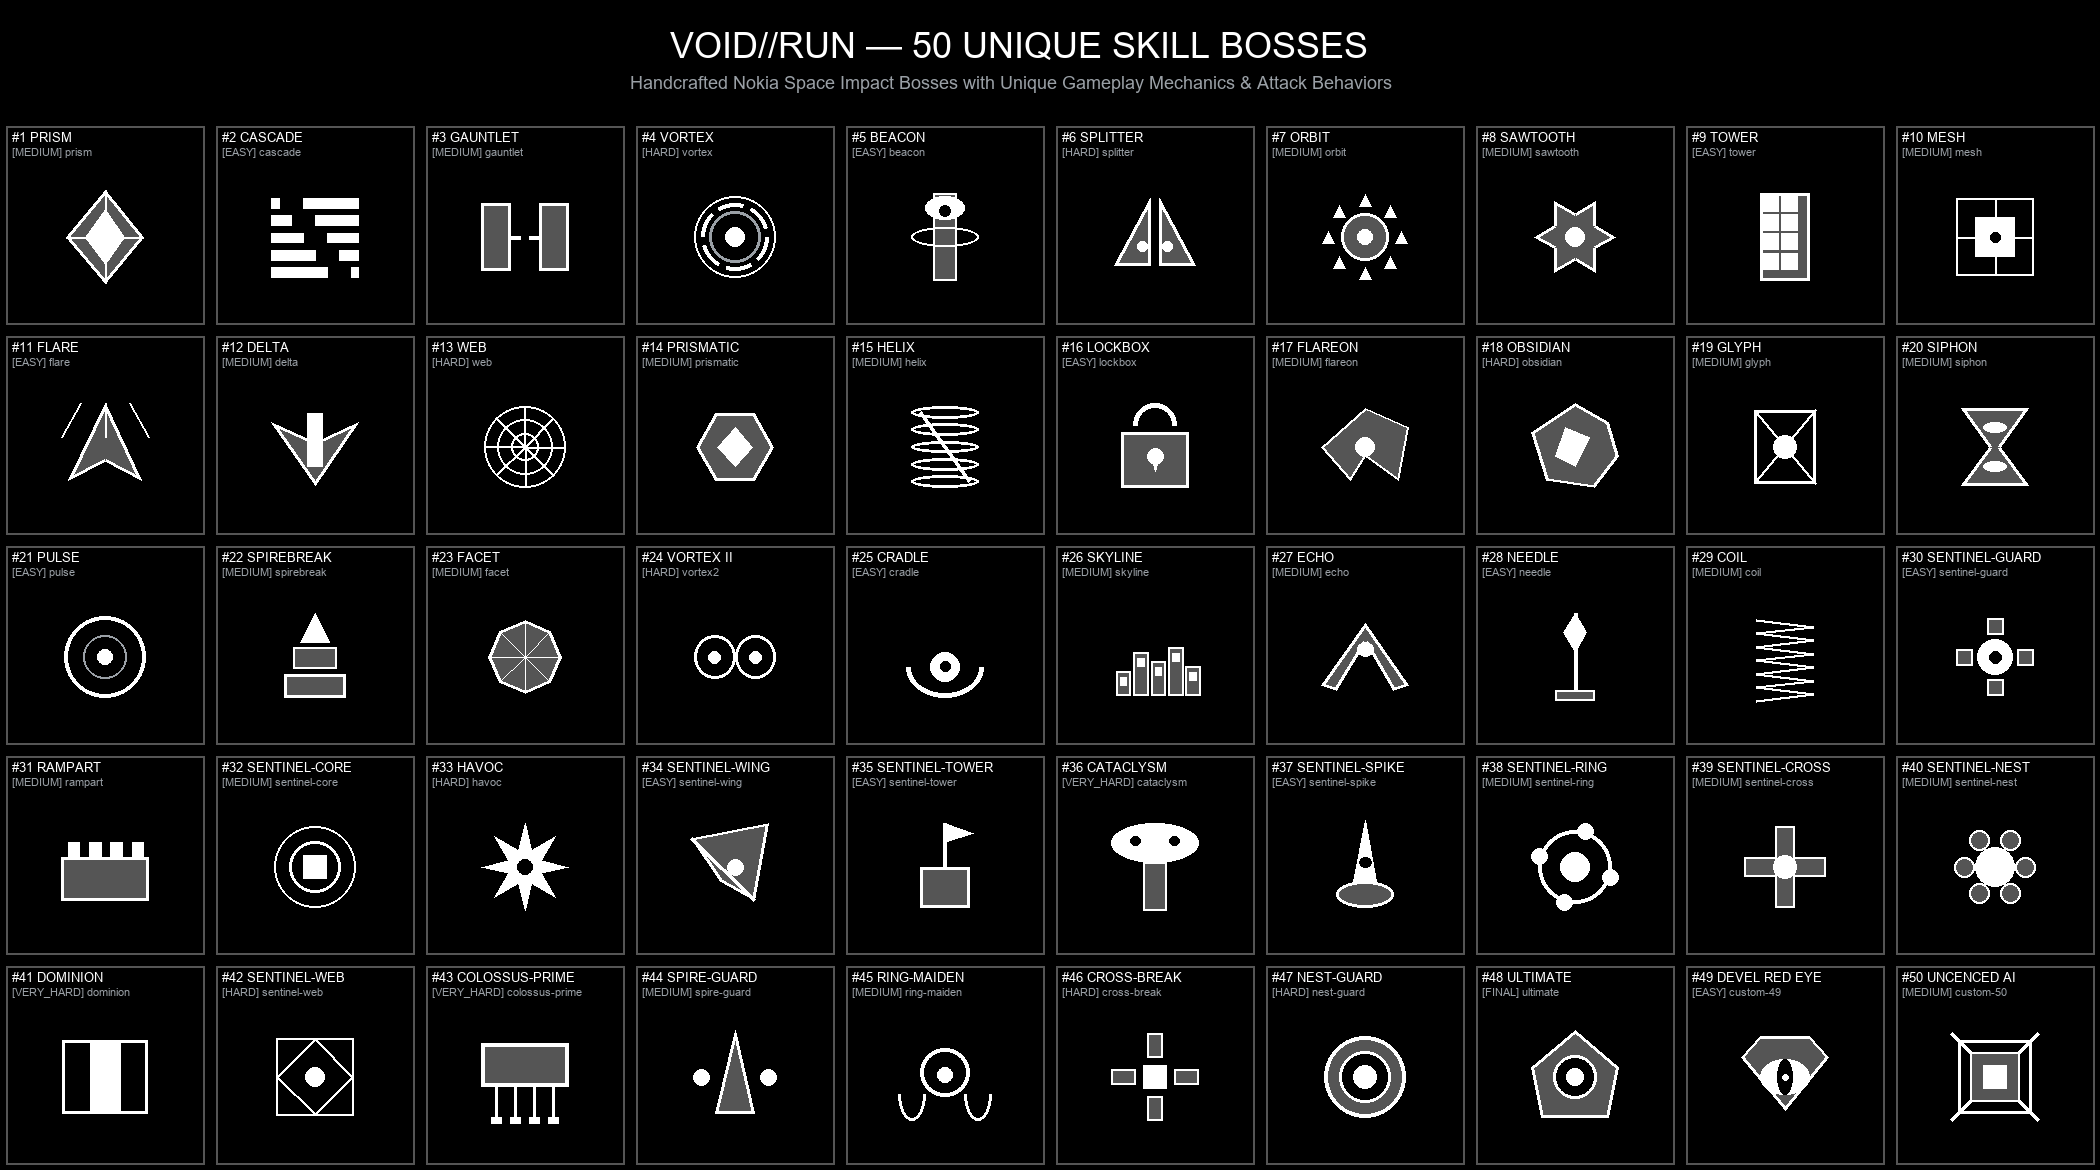
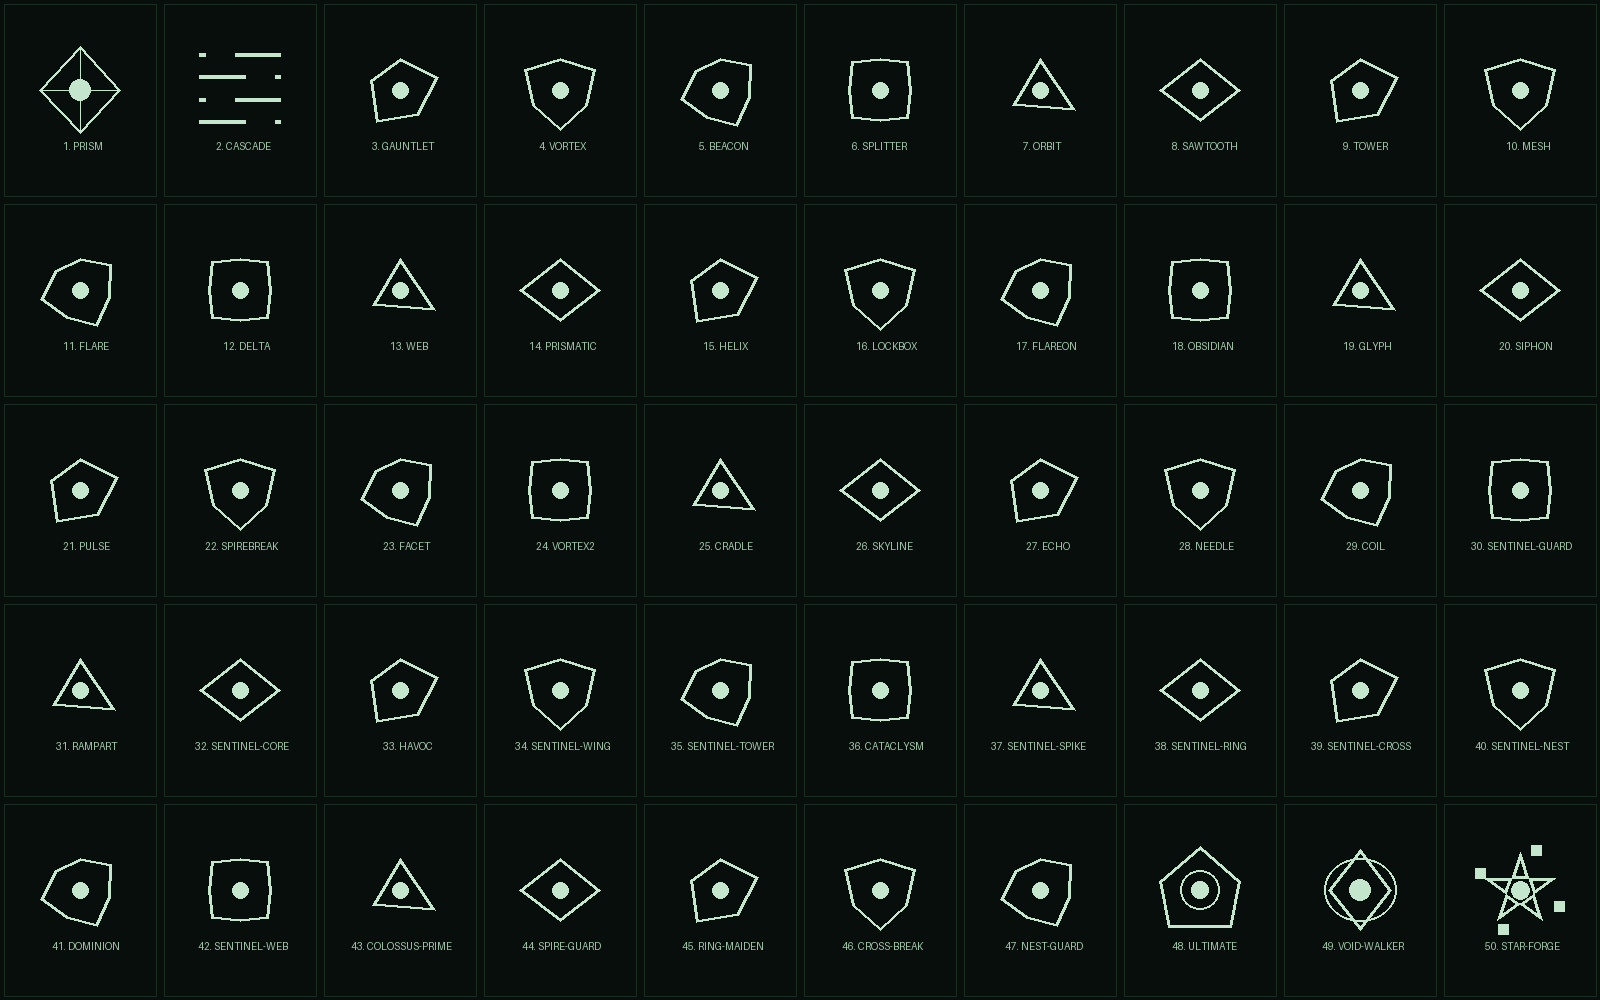
Update bosses 49 void-walker and 50 star-forge in specs, art, and previews

diff --git a/SpaceImpactAndroid/app/src/main/java/com/nebulastrike/game/Art.kt b/SpaceImpactAndroid/app/src/main/java/com/nebulastrike/game/Art.kt
@@ -958,32 +958,35 @@ object Art {
                 c.drawOval((x-bw*0.22).toFloat(), (y-bw*0.22).toFloat(), (x+bw*0.22).toFloat(), (y+bw*0.22).toFloat(), stroke)
                 c.drawOval((x-bw*0.09).toFloat(), (y-bw*0.09).toFloat(), (x+bw*0.09).toFloat(), (y+bw*0.09).toFloat(), fill.apply { color = col })
             }
-            "custom-49", "48", "boss48" -> { // #49 THE DEVEL RED EYE (ID: custom-49)
-                path.reset()
-                path.moveTo((x).toFloat(), (y + bw * 0.35).toFloat())
-                path.lineTo((x - bw * 0.45).toFloat(), (y - bw * 0.2).toFloat())
-                path.lineTo((x - bw * 0.25).toFloat(), (y - bw * 0.42).toFloat())
-                path.lineTo((x + bw * 0.25).toFloat(), (y - bw * 0.42).toFloat())
-                path.lineTo((x + bw * 0.45).toFloat(), (y - bw * 0.2).toFloat())
-                path.close()
-                c.drawPath(path, fill.apply { color = bg })
-                stroke.color = col; stroke.strokeWidth = 3f; c.drawPath(path, stroke)
-                c.drawOval((x-bw*0.25).toFloat(), (y-bw*0.18).toFloat(), (x+bw*0.25).toFloat(), (y+bw*0.18).toFloat(), fill.apply { color = col })
-                c.drawOval((x-bw*0.08).toFloat(), (y-bw*0.18).toFloat(), (x+bw*0.08).toFloat(), (y+bw*0.18).toFloat(), fill.apply { color = inv })
-                c.drawOval((x-3).toFloat(), (y-3).toFloat(), (x+3).toFloat(), (y+3).toFloat(), fill.apply { color = col })
-            }
-            "custom-50", "49", "boss49" -> { // #50 UNCENCED AI (ID: custom-50)
-                stroke.color = col; stroke.strokeWidth = 3f
-                c.drawRect((x-bw*0.38).toFloat(), (y-bw*0.38).toFloat(), (x+bw*0.38).toFloat(), (y+bw*0.38).toFloat(), stroke)
-                c.drawRect((x-bw*0.25).toFloat(), (y-bw*0.25).toFloat(), (x+bw*0.25).toFloat(), (y+bw*0.25).toFloat(), fill.apply { color = bg })
+            "void-walker", "custom-49", "48", "boss48" -> { // #49 VOID-WALKER (ID: void-walker)
+                // Intangible phasing entity with shifting translucent diamond shell & core
                 stroke.color = col; stroke.strokeWidth = 2f
-                c.drawRect((x-bw*0.25).toFloat(), (y-bw*0.25).toFloat(), (x+bw*0.25).toFloat(), (y+bw*0.25).toFloat(), stroke)
-                c.drawRect((x-bw*0.12).toFloat(), (y-bw*0.12).toFloat(), (x+bw*0.12).toFloat(), (y+bw*0.12).toFloat(), fill.apply { color = col })
-                stroke.color = col; stroke.strokeWidth = 3f
-                for (cx_sign in floatArrayOf(-1f, 1f)) {
-                    for (cy_sign in floatArrayOf(-1f, 1f)) {
-                        c.drawLine(x + cx_sign * bw * 0.25f, y + cy_sign * bw * 0.25f, x + cx_sign * bw * 0.45f, y + cy_sign * bw * 0.45f, stroke)
-                    }
+                c.drawOval(x - bw * 0.4f, y - bw * 0.35f, x + bw * 0.4f, y + bw * 0.35f, stroke)
+                path.reset()
+                path.moveTo(x, y - bw * 0.45f)
+                path.lineTo(x + bw * 0.35f, y)
+                path.lineTo(x, y + bw * 0.45f)
+                path.lineTo(x - bw * 0.35f, y)
+                path.close()
+                stroke.color = col; stroke.strokeWidth = 3f; c.drawPath(path, stroke)
+                c.drawOval(x - bw * 0.12f, y - bw * 0.12f, x + bw * 0.12f, y + bw * 0.12f, fill.apply { color = col })
+            }
+            "star-forge", "custom-50", "49", "boss49" -> { // #50 STAR-FORGE (ID: star-forge)
+                // Rotating 5-point pentagram star with orbiting rune nodes
+                path.reset()
+                for (step in 0 until 5) {
+                    val aOuter = (step * 4 * PI / 5 - PI / 2).toFloat()
+                    val px = x + cos(aOuter) * bw * 0.42f
+                    val py = y + sin(aOuter) * bw * 0.42f
+                    if (step == 0) path.moveTo(px, py) else path.lineTo(px, py)
+                }
+                path.close()
+                stroke.color = col; stroke.strokeWidth = 3f; c.drawPath(path, stroke)
+                c.drawOval(x - bw * 0.1f, y - bw * 0.1f, x + bw * 0.1f, y + bw * 0.1f, fill.apply { color = col })
+                for (sIdx in 0 until 4) {
+                    val sa = (sIdx * PI / 2 + 0.4f).toFloat()
+                    c.drawRect(x + cos(sa) * bw * 0.48f - 5f, y + sin(sa) * bw * 0.48f - 5f,
+                               x + cos(sa) * bw * 0.48f + 5f, y + sin(sa) * bw * 0.48f + 5f, fill.apply { color = col })
                 }
             }
             else -> {

diff --git a/SpaceImpactAndroid/app/src/main/java/com/nebulastrike/game/BossCatalog.kt b/SpaceImpactAndroid/app/src/main/java/com/nebulastrike/game/BossCatalog.kt
@@ -74,6 +74,6 @@ val ALL_50_BOSS_SPECS = listOf(
     BossSpecInfo("cross-break", "CROSS-BREAK", "HARD", 3000f, 10, 46, 4), // separating & returning cross arms
     BossSpecInfo("nest-guard", "NEST-GUARD", "HARD", 3200f, 8, 47, 4), // peeling reinforced shell layers
     BossSpecInfo("ultimate", "ULTIMATE", "FINAL", 5000f, 6, 48, 5), // 3-phase composite sovereign
-    BossSpecInfo("custom-49", "DEVEL RED EYE", "EASY", 2000f, 0, 49, 3), // demonic ocular gaze
-    BossSpecInfo("custom-50", "UNCENCED AI", "MEDIUM", 3500f, 4, 50, 4) // rogue cybernetic AI hyper-matrix
+    BossSpecInfo("void-walker", "VOID-WALKER", "EASY", 1850f, 0, 49, 2), // intangible phasing entity
+    BossSpecInfo("star-forge", "STAR-FORGE", "MEDIUM", 3400f, 4, 50, 4) // rotating pentagram with orbiting rune stones
 )
